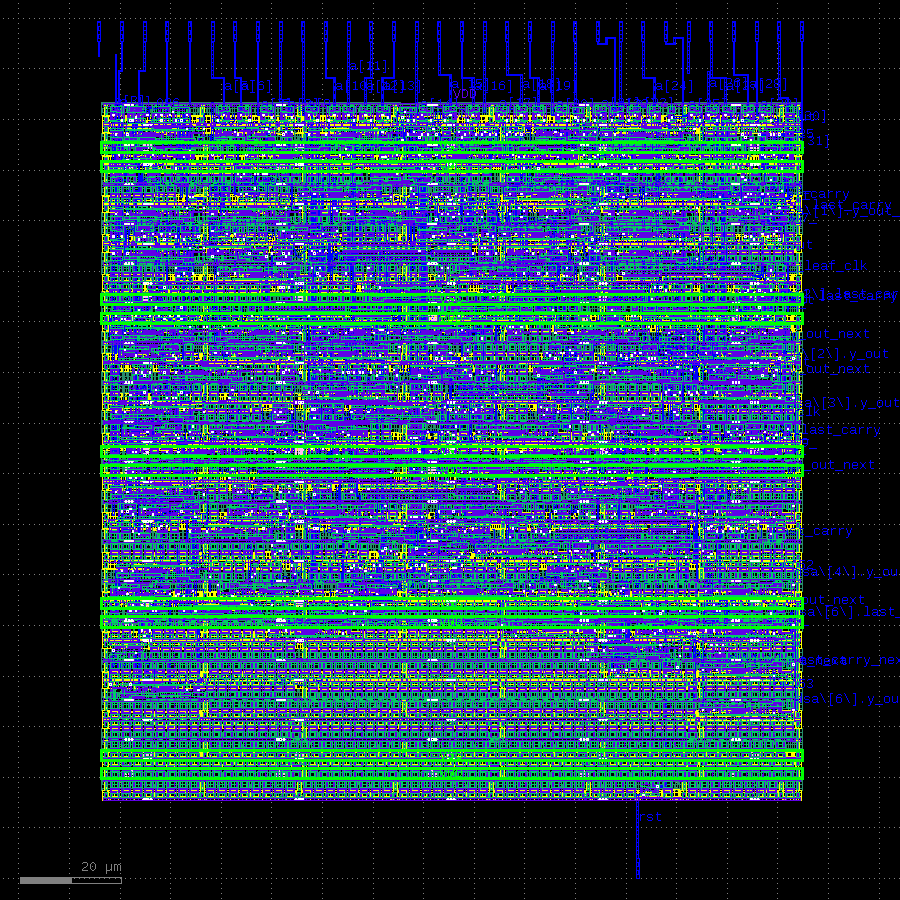
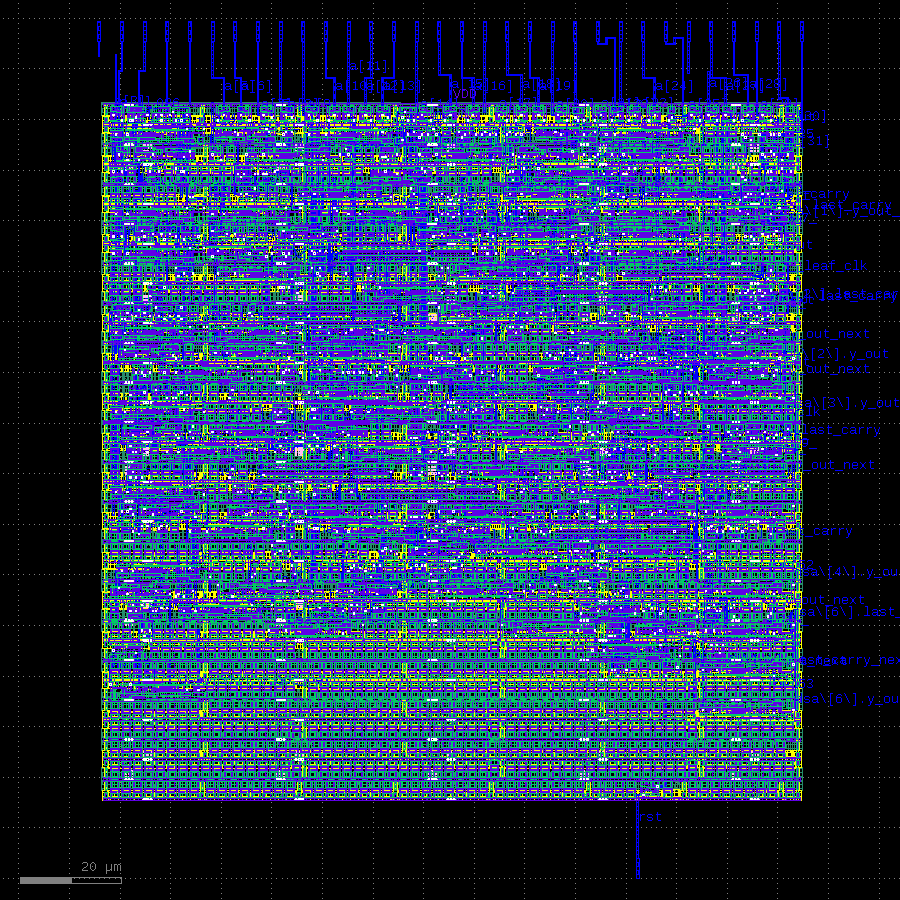
Hide annotation layers in the GDS render; it was a magenta wash, not routing
Asked whether a GDS render "drawn across many layers" is the normal way
to look at one. Yes — a GDS view overlays every layer. But the wash the
dashboard showed was not the routing. Measured with KLayout on spm's
c-hd-synth_strategyAREA_3 GDS: areaid.standardc (81/4, solid magenta
in sky130A.lyp) covers 73% of the die and prBoundary (235/4) 100%,
while met1 covers 19% and met2 is not in the top fourteen layers by
area. Every standard cell carries an areaid.standardc rectangle over
its footprint and the .lyp lists it after the metals, so KLayout
painted it on top. Neither is manufactured geometry.

render_layout.py now hides areaid.*, prBoundary.* and text layers
before saving — what a person does by hand in KLayout before looking
at a routed block — and reports HIDDEN=<n> beside LYP_LOADED.

The 24 stored images whose GDS is still on disk were re-rendered
(counter4 AREA_3 before/after: hatch and magenta outlines over every
cell -> met1/met2/met3 visible). 18 changed; the 6 gf180mcu renders
came out byte-identical because the render loads sky130A.lyp for every
PDK and this tree ships no gf180 .lyp — named in the spec as a gap,
not fixed by copying a layer map. The other 36 images keep their old
render because their GDS is gone.

diff --git a/pipeline/render_layout.py b/pipeline/render_layout.py
@@ -60,6 +60,25 @@ if lyp and os.path.exists(lyp):
     view.load_layer_props(lyp)
     loaded_lyp = True
 
+# Hide the annotation layers, which are not manufactured geometry and
+# which the PDK's .lyp lists AFTER the metals, so KLayout paints them on
+# top. Measured on spm's c-hd-synth_strategyAREA_3 GDS: areaid.standardc
+# (81/4, solid magenta in sky130A.lyp) covers 73% of the die and
+# prBoundary (235/4) covers 100%, while met1 covers 19% and met2 does
+# not reach the top fourteen layers by area. Every standard cell
+# carries an areaid.standardc rectangle over its whole footprint, so
+# with it visible the image is a magenta wash with the routing
+# underneath it — which is what the dashboard was showing. This is the
+# same thing a person does by hand in KLayout before looking at a
+# routed block: switch off areaid/prBoundary/text.
+hidden = []
+for lp in view.each_layer():
+    name = lp.name or ""
+    if name.startswith(("areaid.", "prBoundary.")) or ".label" in name or name.startswith("text."):
+        lp.visible = False
+        hidden.append(name)
+print("HIDDEN=" + str(len(hidden)))
+
 view.zoom_fit()
 view.save_image("/work/out.png", {size}, {size})
 # Reported so the caller can tell a correctly-coloured render from a

diff --git a/tests/test_render_layout.py b/tests/test_render_layout.py
@@ -37,6 +37,20 @@ class TestLayerProperties(unittest.TestCase):
         # correct one rather than both looking equally authoritative.
         self.assertIn("LYP_LOADED=", script)
 
+    def test_render_script_hides_annotation_layers(self):
+        # Measured on spm's c-hd-synth_strategyAREA_3 GDS: areaid.standardc
+        # (81/4, solid magenta in sky130A.lyp) covers 73% of the die and
+        # prBoundary 100%, and the .lyp lists both after the metals, so
+        # KLayout painted a magenta wash over the routing. Neither is
+        # manufactured geometry; hiding them is what a person does by
+        # hand before looking at a routed block.
+        script = render_layout._KLAYOUT_SCRIPT
+        self.assertIn("lp.visible = False", script)
+        self.assertIn('"areaid."', script)
+        self.assertIn('"prBoundary."', script)
+        # Reported, like LYP_LOADED, so a render can say what it hid.
+        self.assertIn("HIDDEN=", script)
+
     def test_pdk_is_mounted_into_the_render_container(self):
         """Loading the .lyp is impossible if the PDK isn't mounted — the
         original bug was exactly that the render container saw only its

diff --git a/docs/superpowers/specs/2026-08-21-autonomous-layout-agent-design.md b/docs/superpowers/specs/2026-08-21-autonomous-layout-agent-design.md
@@ -3183,6 +3183,54 @@ Those runs have always been "not passed" for that reason; now the
 reason is one hover away instead of a sentence in a list. Cases
 recorded before this field existed keep the text rendering.
 
+## Three things the record was not showing
+
+**What still fails, run by run.** aes had eight recorded runs and every
+row in the record read "OPEN · 0 PASS · 2 FAIL". True, and silent about
+whether the loop was getting anywhere. The answer was in every case
+file in prose: setup 481 → 88 → 218 → 3 → 0 → 0 → 8 → 0, max-slew
+1058 → 0, hold up to 314 and then 0, while max-fanout and antenna never
+moved. `ClosureLedger` draws that at the top of each design's group —
+one column per run, one row per kind of check the design has ever
+failed, the cell the count the run's best candidate still had. One hue
+on a square-root scale (counts span 1 to 1158; a linear ramp drew
+everything under 100 as one tint), the number printed in every cell,
+and a table view. Counts are parsed from the `${count} ${label}` strings
+score() wrote; a kind absent from a verdict is absent, never 0, because
+a check that was not gated on the day a case was scored is not a check
+that passed. `ViolationChips` replaces the sentence in the candidate
+tables with the same counts.
+
+**Gate rejections had no fingerprint.** The health page said 24 of 69
+cases carry a failure signature and 18 found no precedent — every aes,
+gcd and riscv32i run. Those runs did not fail in a tool; the tools all
+exited 0 and score() said no, and retrieval keyed on tool error codes
+had nothing to key on. So every review of them started cold, while
+gcd's own clk5 → clk8 setup history sat in the store as the precedent
+for aes's setup problem. `case_retrieval` now also fingerprints what the
+verdict counted (`signoff:setup`, `signoff:hold`, …). Measured: cases
+with a signature 24 → 52, without precedent 18 → 0.
+
+**The layout render was a magenta wash.** Asked whether a GDS render
+"drawn across many layers" is the normal way to look at one: yes, a GDS
+view overlays every layer, that is what it is. But the wash was not the
+routing. Measured with KLayout on spm's c-hd-synth_strategyAREA_3 GDS:
+`areaid.standardc` (81/4, solid magenta in sky130A.lyp) covers 73% of
+the die and `prBoundary` (235/4) 100%, while met1 covers 19% and met2
+does not reach the top fourteen layers by area. Every standard cell
+carries an areaid.standardc rectangle over its whole footprint, and the
+.lyp lists it after the metals, so KLayout painted it on top. Neither is
+manufactured geometry. `render_layout.py` now hides areaid, prBoundary
+and text layers before saving — what a person does by hand in KLayout
+before looking at a routed block — and reports how many it hid. The 24
+stored images whose GDS is still on disk were re-rendered; the other
+36 keep the old render, since the GDS they came from is gone. Of the
+24, the 6 gf180mcu ones came out byte-identical: the render still
+loads sky130A.lyp for every PDK, this PDK tree ships no gf180 .lyp,
+and layers that never get a sky130 name are neither coloured by it nor
+hidden by name. Those images were and remain KLayout-default colours.
+Left as a named gap rather than papered over with a copied layer map.
+
 ## Known limitations / explicit non-goals
 
 - SRAM bitcell/array layout generation is not covered by this pipeline.
